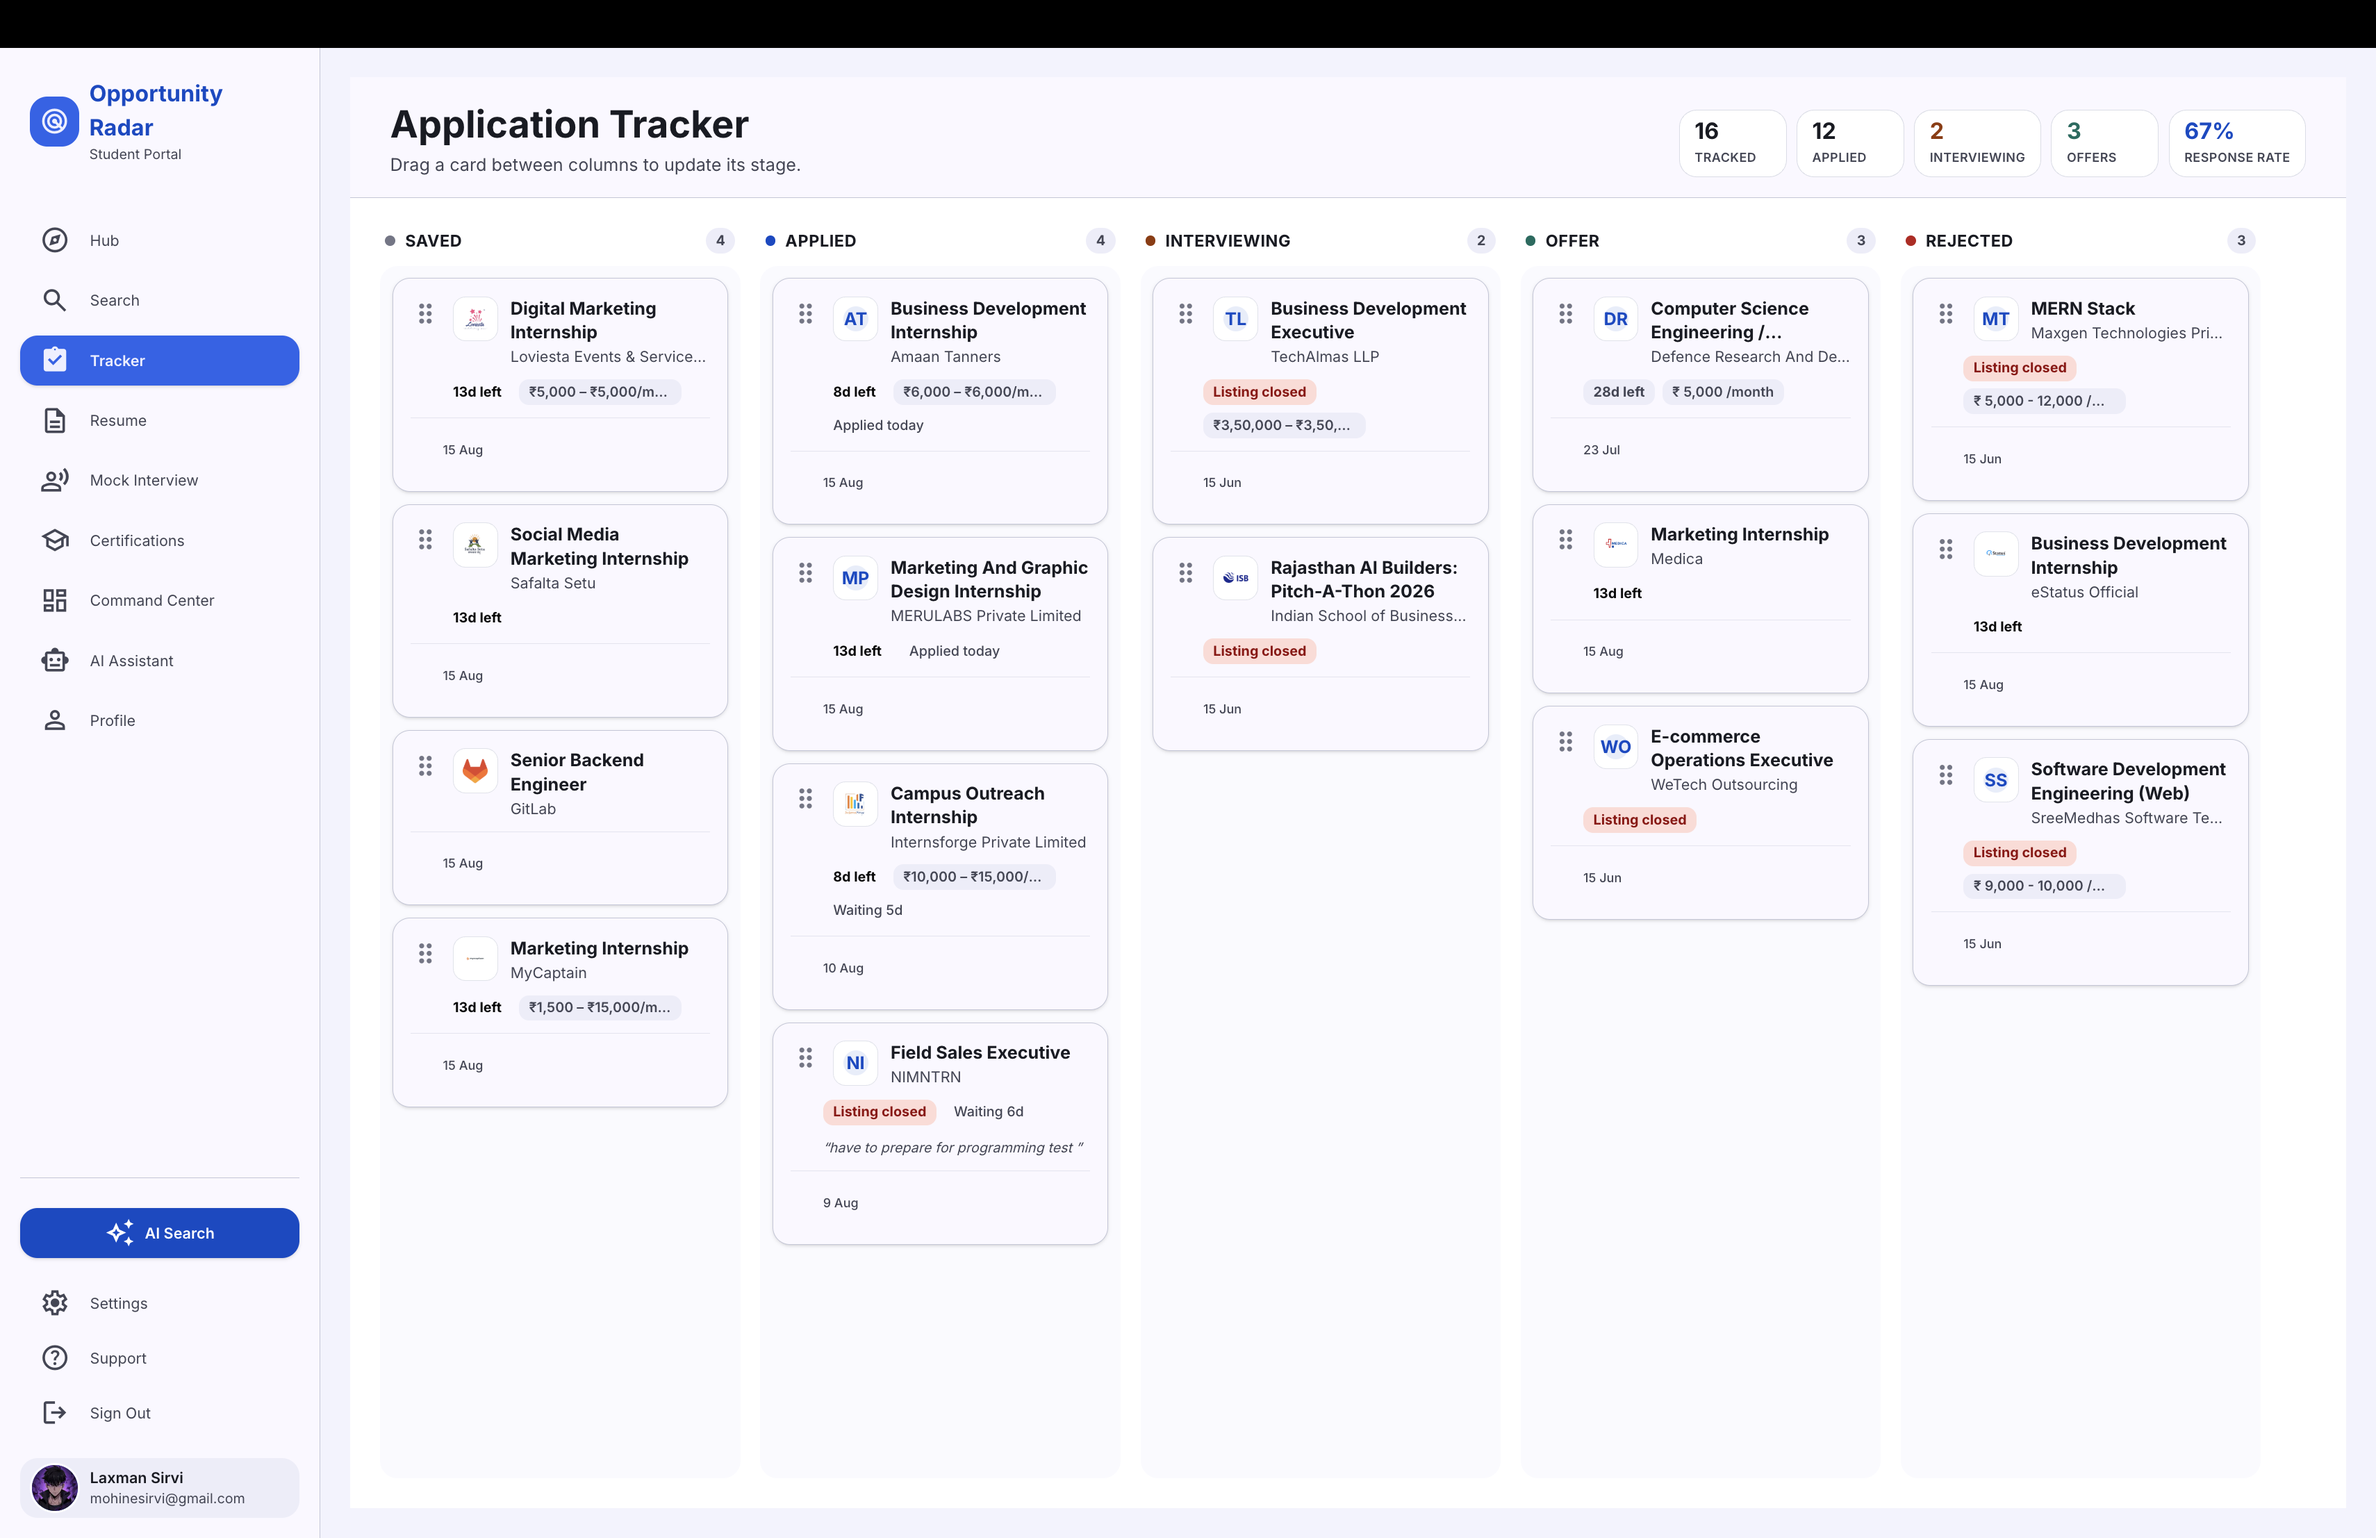
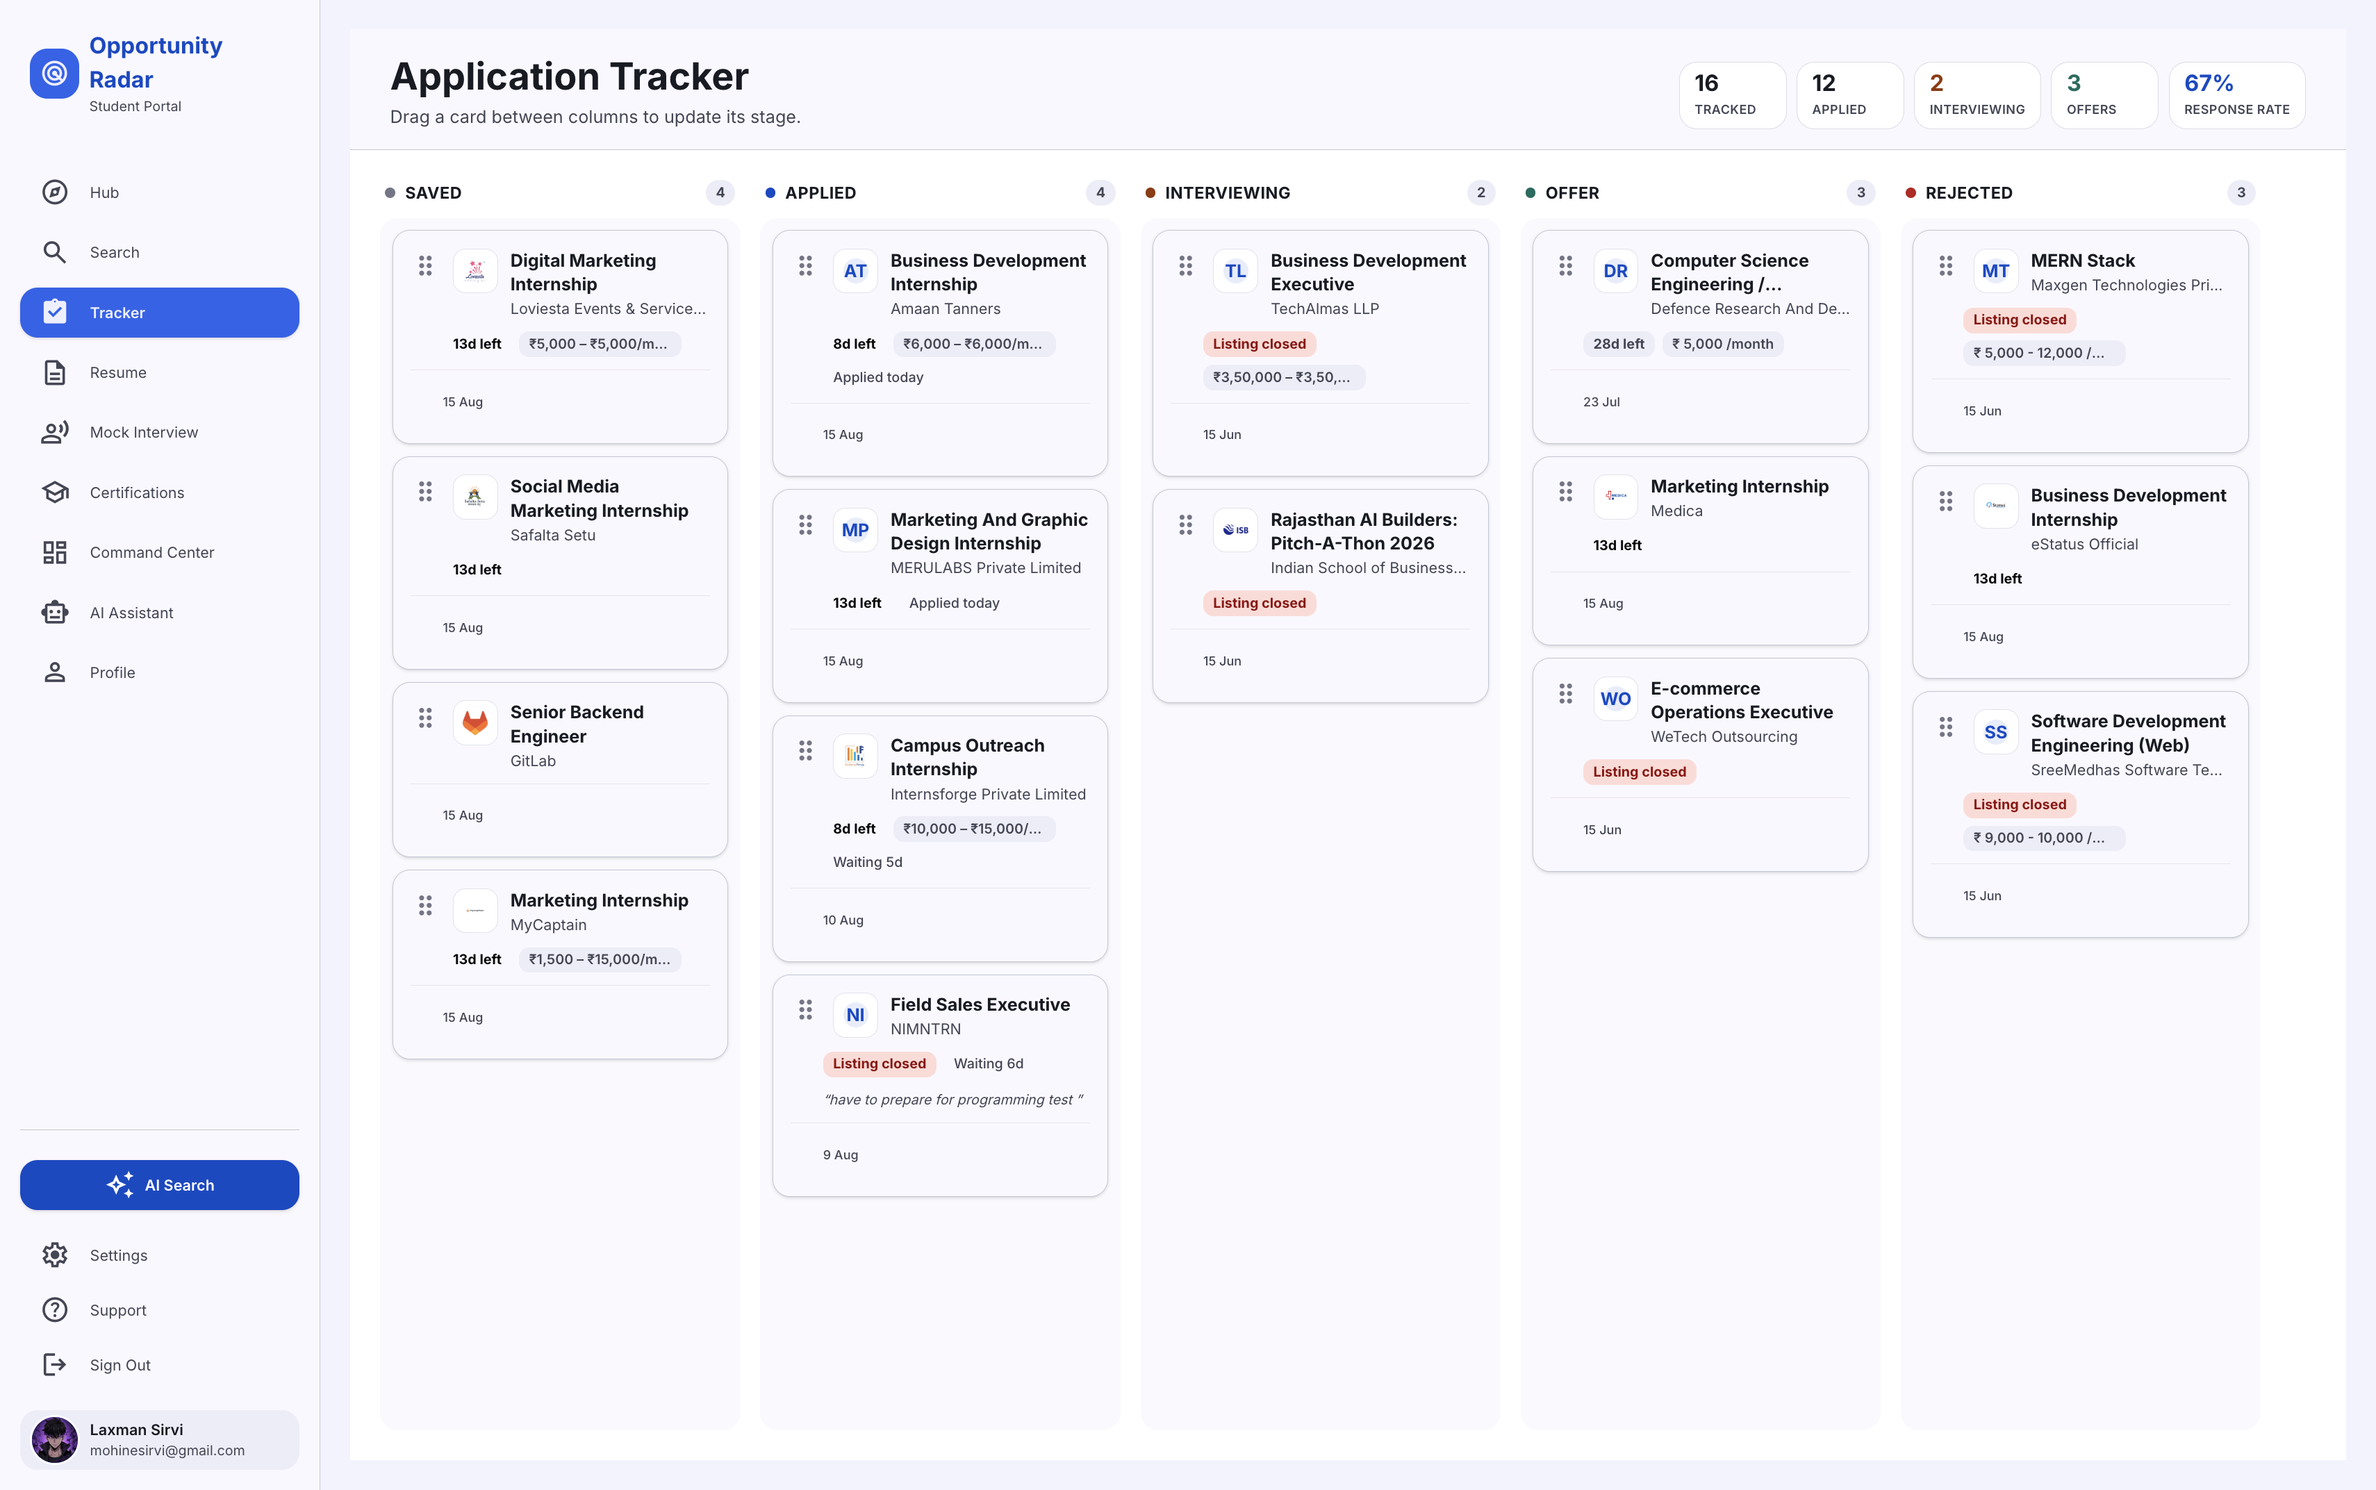
feat(landing): add Resume and Notes to the capability stack, and fill the cards
Two of the app's biggest features were missing from the landing page. AI
Resume Optimizer now sits after AI Search and Notes after Application
Tracker, which keeps the stack in the order a student actually moves through
the product: discover, match, prepare, track, organise, review.

The stack's scroll timeline was hardcoded to the old count — six segments,
+=700%, 800vh, and a seven-entry id array parallel to the feature list.
Adding a card to that would have left the last one unreachable and pointed
the footer's "Tracker" link at whichever card happened to land in slot three.
All four now derive from the list, and each feature carries its own anchor id
so reordering cannot silently repoint a deep link again.

Card images were letterboxed. Every screenshot carried a 69px black titlebar
strip, and `object-contain` fitted the whole thing — strip included — inside
a 16/10 card, leaving bars. A `scale(1.06)` transform hid the strip on four
of them by pushing it out of frame, which cost 6% of the image and left the
other two showing it.

The strip is now cropped out of the files themselves. That puts those shots
at 1.594 — which is what the 16/10 card was always sized for — so
`object-cover` fills them edge to edge with no crop and no transform. The one
genuinely tall shot, AI Search at 1.25, takes its crop from the bottom, which
loses the half-visible banner that was there and gains a full first row of
results.
[…]

diff --git a/frontend/components/landing/scene-three.tsx b/frontend/components/landing/scene-three.tsx
@@ -10,23 +10,36 @@ if (typeof window !== "undefined") {
 }
 
 const features: {
+  /** Footer deep-link target. Lives on the feature so reordering the list
+   *  cannot silently point "Tracker" at the Notes card. */
+  id: string;
   title: string;
   tagline: string;
   description: string;
   image: string;
+  /**
+   * How the shot sits in the 16/10 card.
+   *
+   * "cover" is right for anything at or narrower than the card — it fills
+   * edge to edge and takes its crop from the bottom, where a screenshot
+   * trailing off reads as "there is more below". "contain" is for a shot
+   * WIDER than the card, where cover would crop the sides and cut content
+   * mid-word; it letterboxes top and bottom instead.
+   */
+  fit?: "cover" | "contain";
   highlights: string[];
-  needsCrop?: boolean;
 }[] = [
   {
+    id: "feature-search",
     title: "Search",
     tagline: "Find opportunities without searching everywhere.",
     description:
       "Search across jobs, internships, hackathons, scholarships, competitions and more with freshness, category, location, mode and skill filters.",
     image: "/search.png",
-    needsCrop: true,
     highlights: ["Fresh opportunities", "Powerful filters", "Multiple opportunity types"],
   },
   {
+    id: "feature-ai-search",
     title: "AI Search",
     tagline: "Find the opportunities that fit you.",
     description:
@@ -35,41 +48,64 @@ const features: {
     highlights: ["Resume-aware matching", "Personalized results", "AI-ranked opportunities"],
   },
   {
+    id: "feature-resume",
+    title: "AI Resume Optimizer",
+    tagline: "Turn your resume into the one they shortlist.",
+    description:
+      "Build or import a resume, score it against a real job description, and get gap-derived suggestions plus the certifications that close them.",
+    image: "/resume_optimizer.png",
+    highlights: ["Real ATS score", "Gap-derived suggestions", "Career insights"],
+  },
+  {
+    id: "feature-tracker",
     title: "Application Tracker",
     tagline: "Know exactly where every application stands.",
     description:
       "Track opportunities from saved and applied through interviewing, offers and completed outcomes in one visual workflow.",
     image: "/application_tracker.png",
-    needsCrop: true,
     highlights: ["Kanban workflow", "Application stages", "Deadline visibility"],
   },
   {
+    id: "feature-notes",
+    title: "Notes",
+    tagline: "Keep every detail of your search in one place.",
+    description:
+      "Capture interview prep, company research and revision notes in colour-coded folders, with pinning, sharing, attachments and full-text search.",
+    image: "/notes.png",
+    highlights: ["Colour-coded folders", "Pin, share and archive", "Search across notes"],
+  },
+  {
+    id: "feature-command-center",
     title: "Command Center",
     tagline: "Know what deserves your attention next.",
     description:
       "Bring career progress, saved opportunities, applications, interviews and urgent actions into one focused control center.",
     image: "/command_center.png",
-    needsCrop: true,
     highlights: ["Priority actions", "Career overview", "Urgent alerts"],
   },
   {
+    id: "feature-certifications",
     title: "Certifications",
     tagline: "Build the skills your opportunities demand.",
     description:
       "Discover relevant courses and certifications using filters for price, level, duration and provider.",
     image: "/certification.png",
-    needsCrop: true,
     highlights: ["Skill discovery", "Provider filters", "Structured learning options"],
   },
   {
+    id: "feature-ai-interview",
     title: "AI Interview",
     tagline: "Practice before the real interview.",
     description:
       "Simulate a live interview with an AI interviewer, respond in real time and build confidence before speaking with recruiters.",
     image: "/ai_interview.png",
+    // 1.92 against the card's 1.60 — cover would slice 17% off the width and
+    // cut the transcript text mid-sentence on both edges.
+    fit: "contain",
     highlights: ["Live AI interviewer", "Real-time transcript", "Interview practice"],
   },
   {
+    id: "feature-global-chat",
     title: "Global Chat",
     tagline: "You are not building your career alone.",
     description:
@@ -86,14 +122,19 @@ export default function SceneThree() {
   const rightTextsRef = useRef<(HTMLDivElement | null)[]>([]);
   const titlesRef = useRef<(HTMLDivElement | null)[]>([]);
 
+  /** Hand-offs between cards — one fewer than the number of cards. */
+  const segmentCount = features.length - 1;
+
   useGSAP(
     () => {
-      // We want to scrub through 6 segments
+      // One segment per hand-off between cards, derived from the list rather
+      // than hardcoded — this was `6` and `+=700%` for seven features, so
+      // adding one silently left the last card unreachable.
       const tl = gsap.timeline({
         scrollTrigger: {
           trigger: containerRef.current,
           start: "top top",
-          end: "+=700%", // Slightly longer for smoother transitions
+          end: `+=${features.length * 100}%`,
           scrub: true,
         },
       });
@@ -146,8 +187,8 @@ export default function SceneThree() {
         });
       });
 
-      // Add animations for each segment (0 to 5)
-      for (let s = 0; s < 6; s++) {
+      // Add animations for each segment
+      for (let s = 0; s < segmentCount; s++) {
         features.forEach((_, i) => {
           const d = i - (s + 1); // distance of card i from active position
           
@@ -238,25 +279,19 @@ export default function SceneThree() {
     { scope: containerRef }
   );
 
-  const featureIds = [
-    "feature-search",
-    "feature-ai-search",
-    "feature-tracker",
-    "feature-command-center",
-    "feature-certifications",
-    "feature-ai-interview",
-    "feature-global-chat"
-  ];
-
   return (
-    <section ref={containerRef} className="relative w-full h-[800vh] bg-transparent">
+    <section
+      ref={containerRef}
+      className="relative w-full bg-transparent"
+      style={{ height: `${(features.length + 1) * 100}vh` }}
+    >
       {/* Navigation Anchors for Footer Links */}
-      {features.map((_, i) => (
-        <div 
-          key={`anchor-${i}`} 
-          id={featureIds[i]} 
-          className="absolute w-full h-px pointer-events-none" 
-          style={{ top: `${(i / 6) * 700}vh` }} 
+      {features.map((f, i) => (
+        <div
+          key={f.id}
+          id={f.id}
+          className="absolute w-full h-px pointer-events-none"
+          style={{ top: `${(i / segmentCount) * features.length * 100}vh` }}
         />
       ))}
 
@@ -329,12 +364,9 @@ export default function SceneThree() {
                   <img
                     src={feature.image}
                     alt={feature.title}
-                    className="w-full h-full object-contain bg-white"
-                    style={
-                      feature.needsCrop
-                        ? { transform: "scale(1.06)", transformOrigin: "center bottom" }
-                        : {}
-                    }
+                    className={`w-full h-full bg-white ${
+                      feature.fit === "contain" ? "object-contain" : "object-cover object-top"
+                    }`}
                   />
                 </div>
               ))}

diff --git a/frontend/components/landing/hover-footer.tsx b/frontend/components/landing/hover-footer.tsx
@@ -34,6 +34,8 @@ export default function HoverFooter() {
                 { name: "Tracker", href: "#feature-tracker" },
                 { name: "Global Chat", href: "#feature-global-chat" },
                 { name: "Command Ctr", href: "#feature-command-center" },
+                { name: "Resume", href: "#feature-resume" },
+                { name: "Notes", href: "#feature-notes" },
               ].map((link) => (
                 <Link key={link.name} href={link.href} className="text-sm text-slate-400 hover:text-blue-500 transition-colors duration-200">
                   {link.name}
